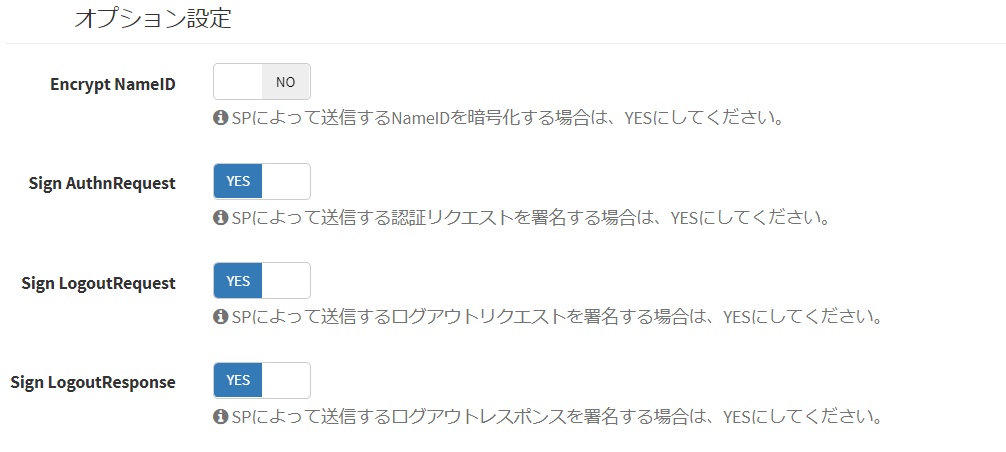
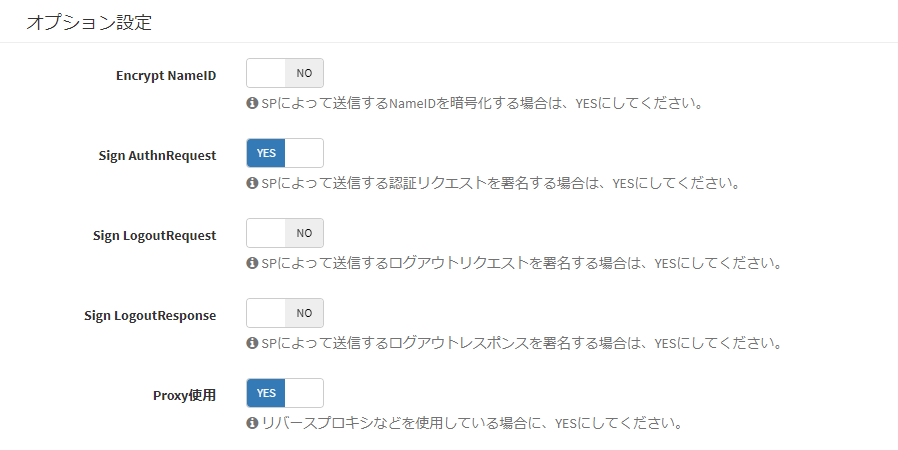
Update v3.6.0

Changed region(s): [[0.0, 0.56, 0.8731, 0.9644], [0.0312, 0.1244, 0.8419, 0.56], [0.0312, 0.0, 0.2494, 0.0622]]

diff --git a/docs/weakness/20200325.md b/docs/weakness/20200325.md
@@ -1,0 +1,133 @@
+# Vulnerability - Cross-site scripting on the listing data
+
+## Overview
+
+### Information disclosure date
+2020/03/25
+
+### Target version
+Under v3.1.6
+
+### Other
+- There are currently no damage reports for this vulnerability.
+
+## Vulnerability content
+
+### Background of discovery
+Discovered at the time of renovation by the developer.
+
+### Occurrence condition
+The system administrator must enter the script in the following input contents.
+- "Custom table display name" of custom table
+- "Workflow display name" of the workflow
+- "Workflow status name" of the workflow
+- "User name" of user data
+
+In this case, it occurs by displaying the following page.
+- Custom view list screen
+- Workflow list screen
+- Notification list screen
+- Usage log screen
+
+
+### Cause
+- When the column of the list screen is displayed, the screen is displayed by the function "display". Since this may be displayed in HTML, it is not escaped.
+
+``` php
+///// CustomColumnController Custom column list screen HTML display of unique column check boxes
+$grid->column('unique', exmtrans("custom_column.options.unique"))->sortable()->display(function ($val) {
+    return getTrueMark($val); // return : <i class="fa fa-check"></i>
+});
+```
+
+- Therefore, when displaying normal text, escape measures are required.
+
+``` php
+///// CustomColumnController Custom column list screen Display column type
+$grid->column('column_type', exmtrans("custom_column.column_type"))->sortable()->display(function ($val) {
+    // Function to escape esc_html
+    return esc_html(array_get(ColumnType::transArray("custom_column.column_type_options"), $val));
+});
+```
+
+- However, there were some points where the escape procedure was not performed.
+``` php
+///// CustomViewController Custom view list screen Display table name
+$grid->column('table_view_name', exmtrans("custom_table.table_view_name"))
+    ->display(function () {
+        return $this->custom_table->table_view_name;
+    });
+```
+
+- Therefore, cross-site scripting will occur if the script is intentionally entered in the elements described in "Occurrence conditions".
+
+
+### How to respond
+Please do one of the following:
+
+- (Recommend)[Update](/update) the Exment version to v3.1.7 or higher.
+
+- If you can not update due to some reason, please correct the following files.
+
+``` php
+///// vendor/exceedone/exment/src/Controller/CustomViewController.php
+// In grid function.
+$grid->column('table_name', exmtrans("custom_table.table_name"))
+    ->display(function () {
+        return esc_html($this->custom_table->table_name); //Modify
+    });
+
+$grid->column('table_view_name', exmtrans("custom_table.table_view_name"))
+    ->display(function () {
+        return esc_html($this->custom_table->table_view_name); //Modify
+    });
+
+
+// vendor/exceedone/exment/src/Controller/NotifyController.php
+// In grid function.
+$grid->column('custom_table_id', exmtrans("notify.notify_target"))->sortable()->display(function ($val) {
+    $custom_table = CustomTable::getEloquent($val);
+    if (isset($custom_table)) {
+        return esc_html($custom_table->table_view_name) ?? null; // Modify
+    }
+    if (isset($this->workflow_id)) {
+        return esc_html(Workflow::getEloquent($this->workflow_id)->workflow_view_name); // Modify
+    }
+
+    return null;
+});
+
+
+// vendor/exceedone/exment/src/Controller/WorkflowController.php
+// In grid function.
+$grid->column('workflow_tables', exmtrans("custom_table.table"))->display(function ($v) {
+    if (is_null($custom_table = $this->getDesignatedTable())) {
+        return null;
+    }
+
+    return esc_html($custom_table->table_view_name); // Modify
+});
+$grid->column('workflow_statuses', exmtrans("workflow.status_name"))->display(function ($value) {
+    return esc_html($this->getStatusesString()); //Modify
+});
+
+
+// vendor/exceedone/exment/src/Controller/LogController.php
+// In grid function.
+$grid->column('user.user_name', exmtrans('operation_log.user_name'))->display(function ($foo) {
+    return esc_html($this->user ? $this->user->user_name : null); // Modify
+});
+
+```
+
+
+### Future recurrence prevention method
+- Add a new function "displayEscape" that is displayed after escaping when displaying the columns on the list screen, and display "displayEscape" at the time of normal value display, only when it is necessary to display it in HTML. I will use it.
+
+``` php
+///// CustomViewController Custom view list screen Display table name
+$grid->column('table_view_name', exmtrans("custom_table.table_view_name"))
+    ->displayEscape(function () {
+        return $this->custom_table->table_view_name;
+    });
+```

diff --git a/docs/weakness/20200819.md b/docs/weakness/20200819.md
@@ -1,0 +1,70 @@
+# Vulnerability - Cross-site scripting and script execution policy on screen input
+
+## Overview
+
+### Information disclosure date
+2020/08/19
+
+### Target version
+Under v3.6.0
+
+## Vulnerability content
+Cross-site scripting occurs depending on the screen input item of Exment.
+
+### Background of discovery
+Discovered by notification.
+
+### Occurrence condition
+When the script is entered in the following items, the script will be executed.
+
+- When the system administrator enters the script in the text of the menu "Mail template" and displays the notification details from the notification icon at the top right of the page.
+- When the system administrator inputs the script in the item "description" of the custom form settings.
+- When a script is entered in the custom column type "Editor".
+
+
+### Vulnerability threats
+A function without re-authentication is abused in the victim's session. It is also used for phishing by tampering with the appearance of pages.
+
+
+### How to respond
+Please upgrade to over v3.6.0.
+
+
+## About the policy of script execution by screen input
+**In Exment, some input items intentionally allow you to enter HTML and scripts.**  
+Below is a description of the policy regarding where HTML and scripts can be entered.
+
+
+#### Items that allow administrators to enter HTML and scripts
+- Since this is an item that can only be entered by the administrator, it is possible to enter HTML.
+- And, considering the case where you want to execute the script, the script is also executable.
+
+##### Applicable part
+- Dashboard item, "System" → Display item "HTML"
+- Custom form settings, form item "HTML" "extended HTML"
+*Since v3.6.0, it is specified on the screen that the script can be input.
+
+
+#### Items that allow input of some HTML, but not target HTML and scripts
+- Since the text including the design can be input, save the value using HTML and display it on the screen in HTML format.
+- However, from v3.6.0, there are some restrictions on the HTML that can be used.
+- In addition, if you enter HTML that is not applicable, attributes that are not allowed, and scripts, the scripts will be automatically escaped and displayed.
+- Use [HTML Purifier](https://github.com/mewebstudio/Purifier) to remove untargeted HTML, disallowed attributes and scripts.
+
+
+##### Applicable part
+- Custom column "Editor" data edit screen
+- Template setting screen for email templates. *Applicable when the notification details are displayed from the notification list screen
+
+##### HTML tags that can be input(Over v3.6.0)
+- The tags enclosed in [] are available attributes.
+- You can also use the style attribute on all tags.
+
+```
+div,b,strong,i,em,u,a[href|title|target],ul,ol,li,p,br,span,img[width|height|alt|src],h1,h2,h3,h4,h5,h6,blockquote,hr
+```
+
+#### Other items
+- If you enter HTML and scripts, they are automatically escaped and displayed.
+
+  

diff --git a/docs/ja/release_note.md b/docs/ja/release_note.md
@@ -7,8 +7,11 @@
     - 添付ファイルのURLをクリックしたときに、ブラウザで添付ファイルを表示する形式ではなく、ファイルをダウンロードする形式に変更。詳細は[こちら](/ja/weakness/20200819_2)
 1. 不具合修正
     - ユーザービューを1件以上存在しており、ログインしているユーザーがアクセスできないユーザービューが存在している場合に、テーブルの削除ができない不具合の修正
+    - n:nリレーションが行われているときに、子テーブルのビューから、親テーブルの列データを表示する設定を行っていた場合に、表示されない不具合の修正
     - テンプレートのエクスポート時、カスタムテーブルの「データ自動共有設定」が正常にエクスポートされない不具合の修正
     - カレンダービューの条件設定に、「ワークフローのステータス」を選択していた場合、データが表示されない不具合の修正
+1. 機能追加
+    - SAML認証で、リバースプロキシオプションの追加（SAML設定画面のオプション設定に追加しています）
 1. その他
     - v3.6.0以降でインストールした場合、ユーザーダッシュボード・ユーザービューの初期値を、使用する→使用しないに変更
     - フリーワード検索を実施した場合、テーブル1つごとにリクエストを実施していたものを、テーブル5つずつに変更(同時リクエスト数の削減)

diff --git a/docs/weakness/20200819_2.md b/docs/weakness/20200819_2.md
@@ -1,0 +1,29 @@
+# Vulnerability Script execution when clicking the attached file
+
+## Overview
+
+### Information disclosure date
+2020/08/19
+
+### Target version
+Under v3.6.0
+
+## Vulnerability content
+When the SVG file containing the script is uploaded to the attached file, the script included in the SVG file works by clicking the download URL.
+
+### Background of discovery
+Discovered by notification.
+
+### Occurrence condition
+- Upload the SVG file containing the script as an attachment.
+- By clicking the download URL, the script included in the SVG file will work.
+
+### Vulnerability threats
+A function without re-authentication is abused in the victim's session. It is also used for phishing by tampering with the appearance of pages.
+
+### Response policy
+When I clicked on the attached file, the contents that could be displayed in the browser such as images and PDFs were displayed in the browser,  
+From v3.6.0, it has been modified to always download attachments.
+
+### How to respond
+Please upgrade to over v3.6.0.

diff --git a/docs/ja/weakness/20200819.md b/docs/ja/weakness/20200819.md
@@ -66,9 +66,5 @@ div,b,strong,i,em,u,a[href|title|target],ul,ol,li,p,br,span,img[width|height|alt
 #### それ以外の項目
 - HTMLならびにスクリプトを入力した場合、自動的にエスケープして表示されます。
 
-
-### 謝辞
-この度ご報告いただきました。三井物産セキュアディレクション株式会社　小山様、情報処理推進機構 IPA様、JPCERT/CC 脆弱性ハンドリングチーム様には、この場を借りてお礼申し上げます。
-
   
 [←一覧へ戻る](/ja/patch_weakness)
